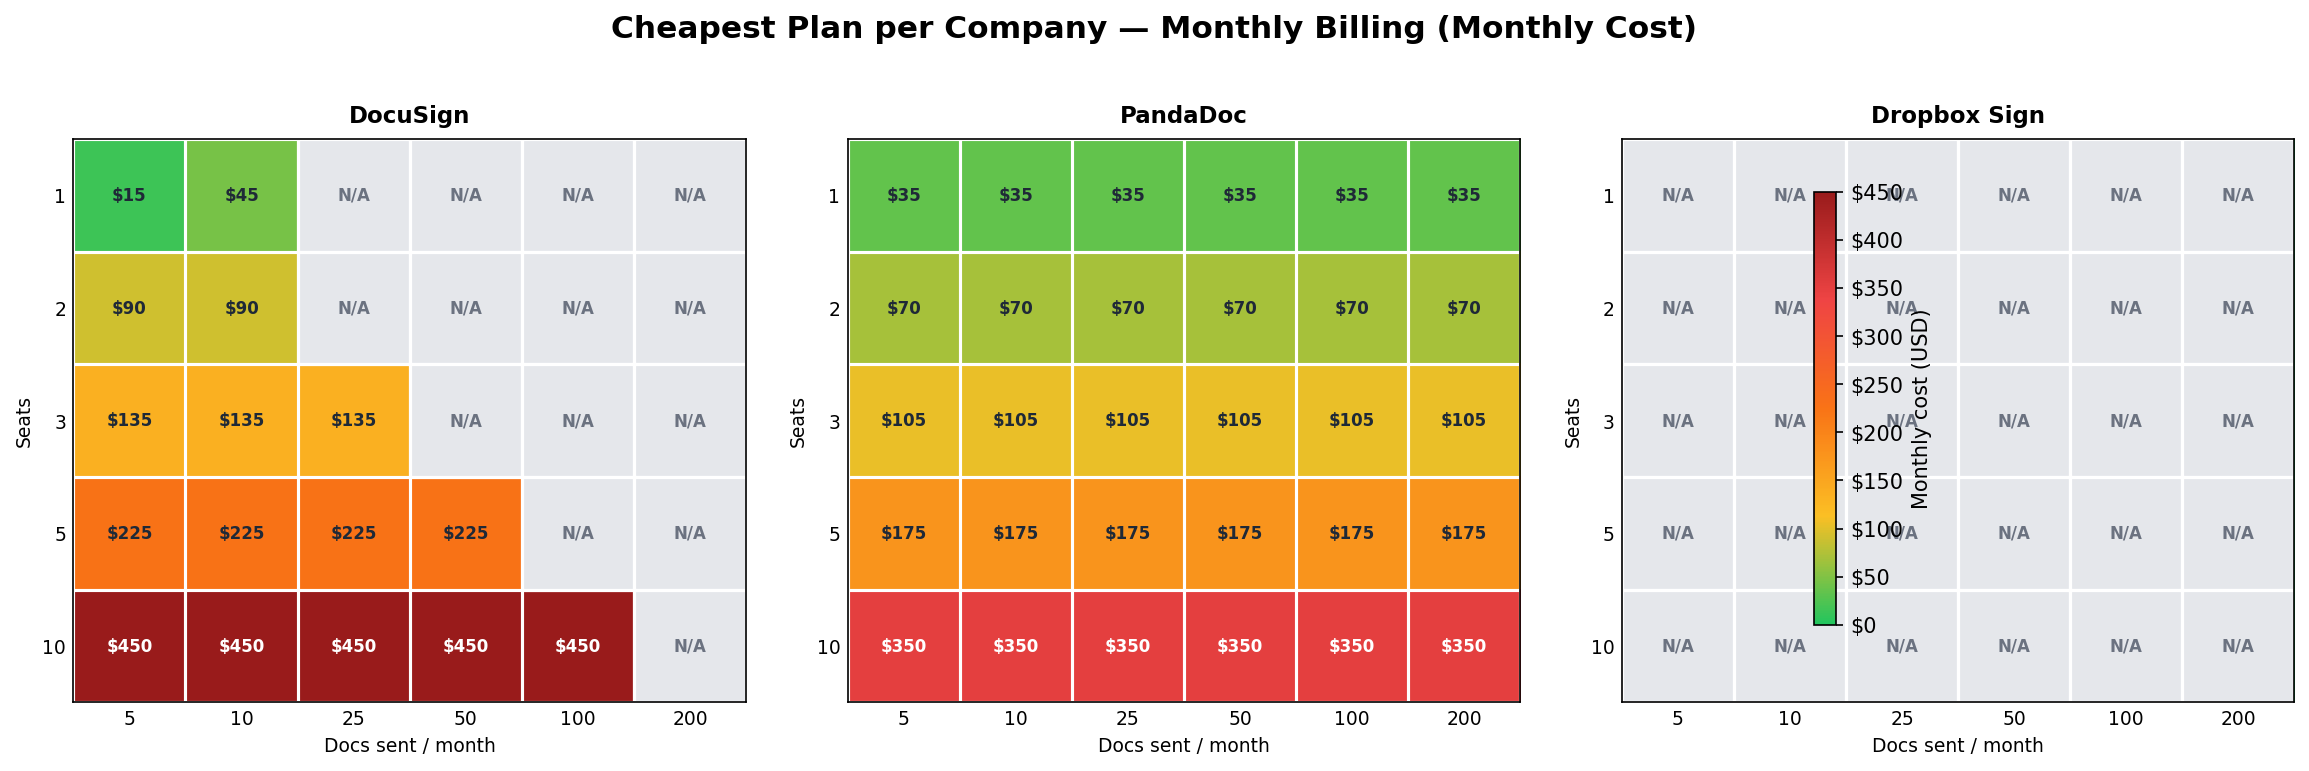
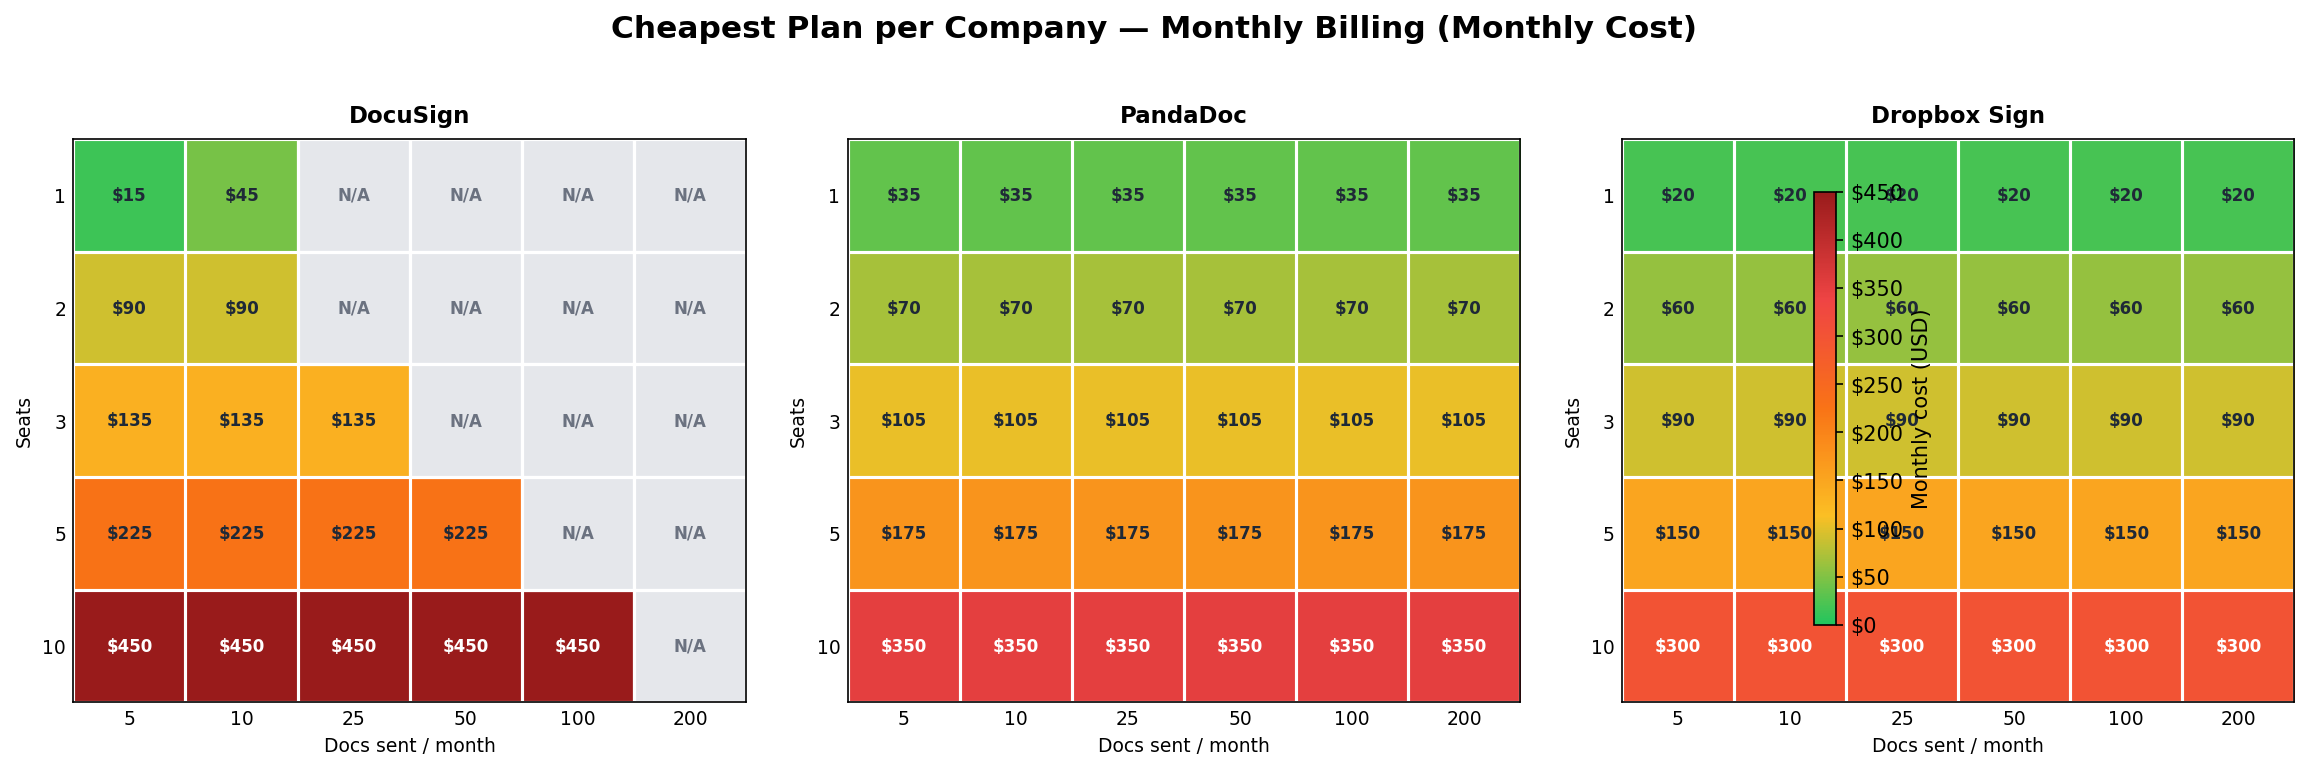
Fix Dropbox Sign: add monthly pricing for Essentials ($20) and Standard ($30)
Previously these were annual-only. Updated Premium estimate to $40/user/mo.
All charts regenerated with corrected data.

https://claude.ai/code/session_014DEMrbiRzCpwPJqmDAr6XD

Changed region(s): [[0.686, 0.1556, 0.9978, 0.9339]]

diff --git a/generate_pricing_charts.py b/generate_pricing_charts.py
@@ -114,21 +114,22 @@ def dropbox_essentials(seats, docs_mo, annual):
     """1 user only, unlimited sending."""
     if seats != 1:
         return None
-    return 15.0  # annual only
+    return 15.0 if annual else 20.0
 
 
 def dropbox_standard(seats, docs_mo, annual):
     """Min 2 seats, max ~4 self-serve. Unlimited sending."""
     if seats < 2:
         return None
-    return 25.0 * seats  # annual only
+    price = 25.0 if annual else 30.0
+    return price * seats
 
 
 def dropbox_premium(seats, docs_mo, annual):
-    """Min 5 seats, custom pricing. Estimate ~$35/user/mo."""
+    """Min 5 seats, custom pricing. Estimate ~$40/user/mo annual."""
     if seats < 5:
         return None
-    return 35.0 * seats  # estimated
+    return 40.0 * seats  # annual only, enterprise/custom for monthly
 
 
 # ── Plan registry ─────────────────────────────────────────────────────────────
@@ -145,8 +146,8 @@ COMPANIES = {
     ],
     "Dropbox Sign": [
         ("Free",       dropbox_free,       True,  False),
-        ("Essentials", dropbox_essentials, True,  False),
-        ("Standard",   dropbox_standard,   True,  False),
+        ("Essentials", dropbox_essentials, True,  True),
+        ("Standard",   dropbox_standard,   True,  True),
         ("Premium\n(est.)", dropbox_premium, True, False),
     ],
 }
